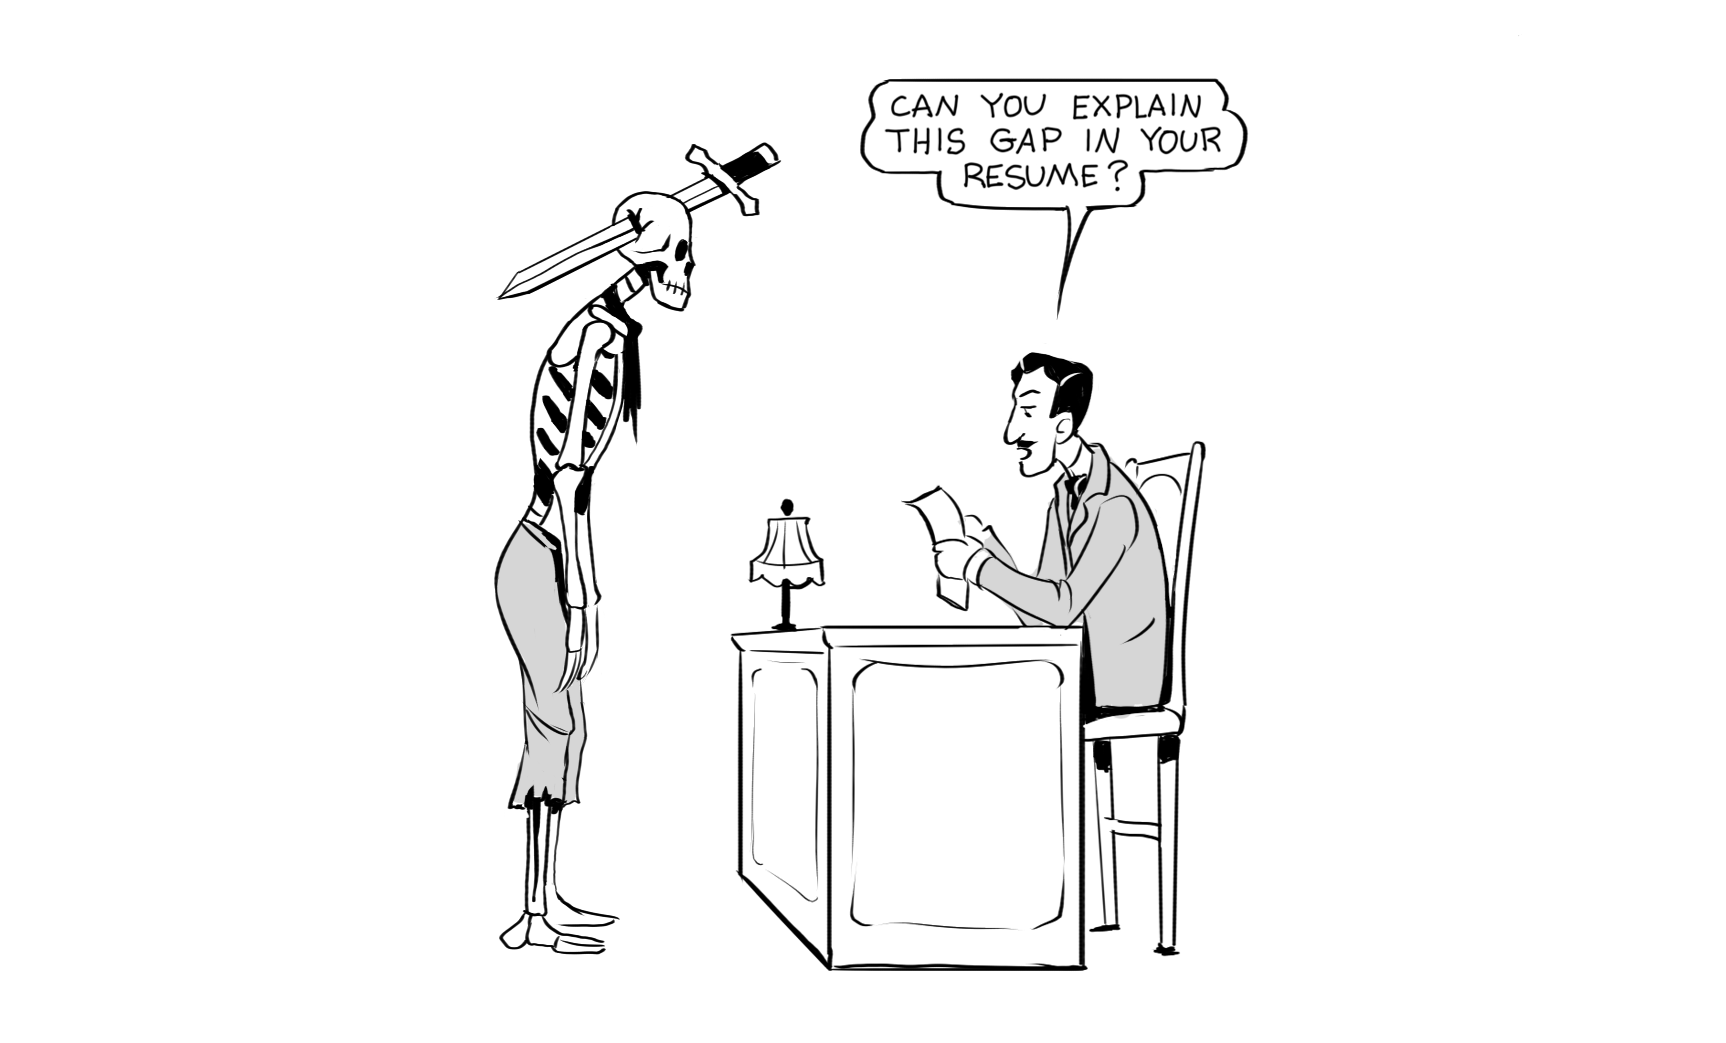
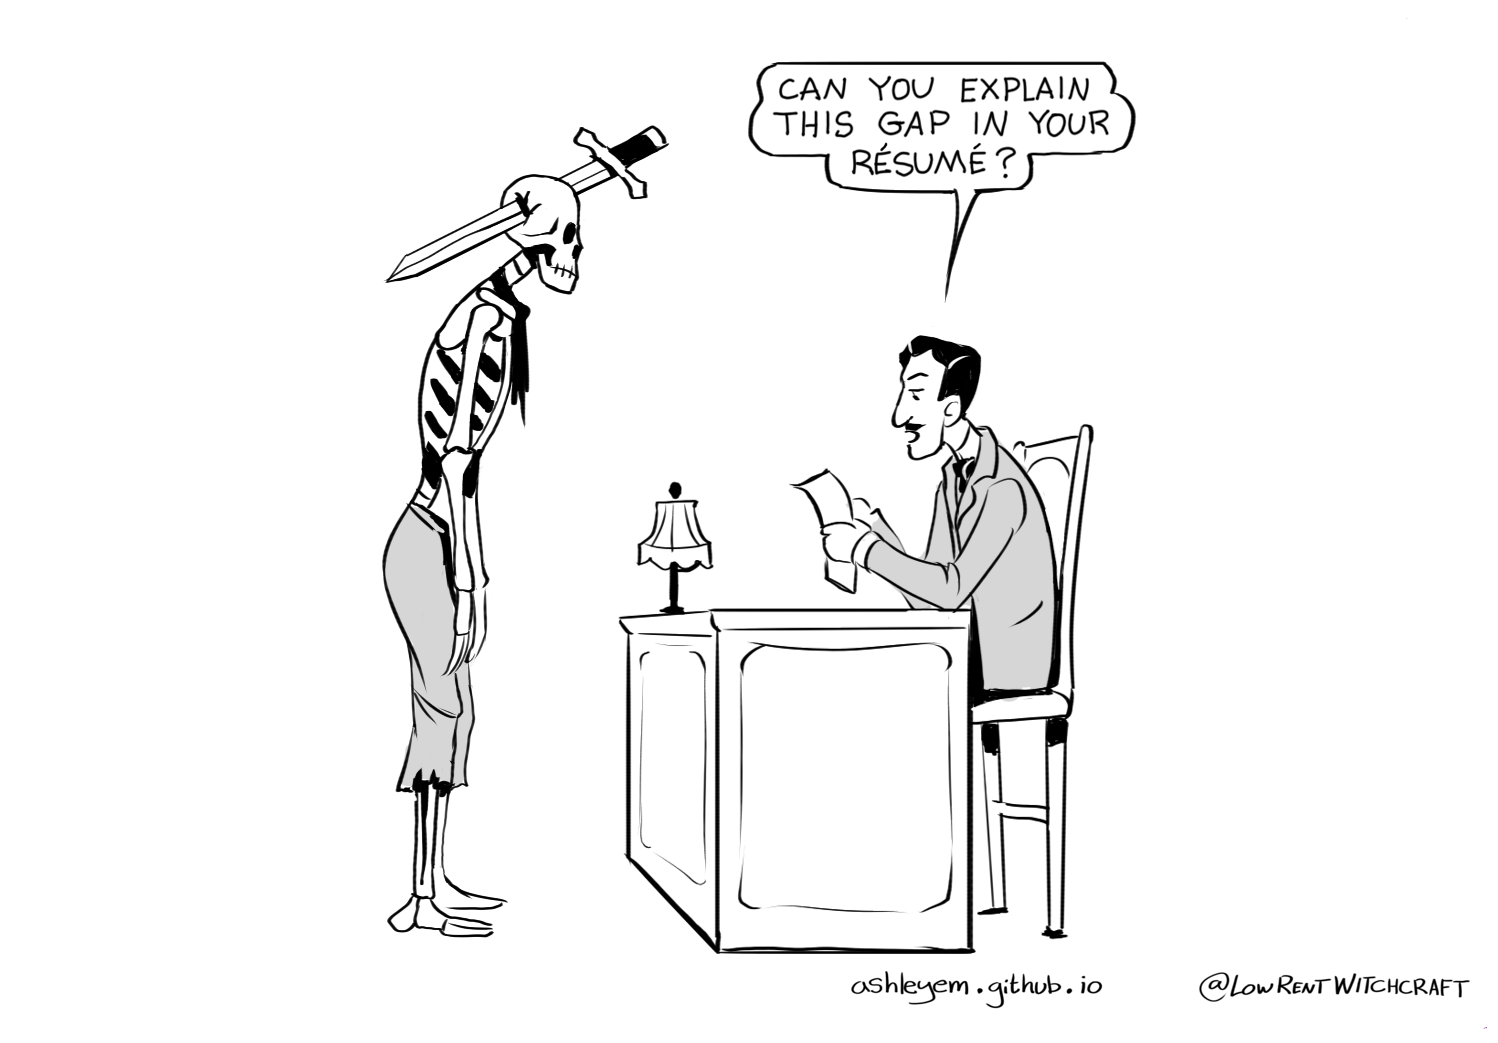
image updates

diff --git a/index.html b/index.html
@@ -22,7 +22,7 @@
 
     <div class="card" data-id="resume_gap">
         <img src="comics/resume_gap/preview.png"/>
-        <h3>Resume Gap</h3>
+        <h3>Résumé Gap</h3>
     </div>
 
     <div class="card" data-id="lucy's_friend">
